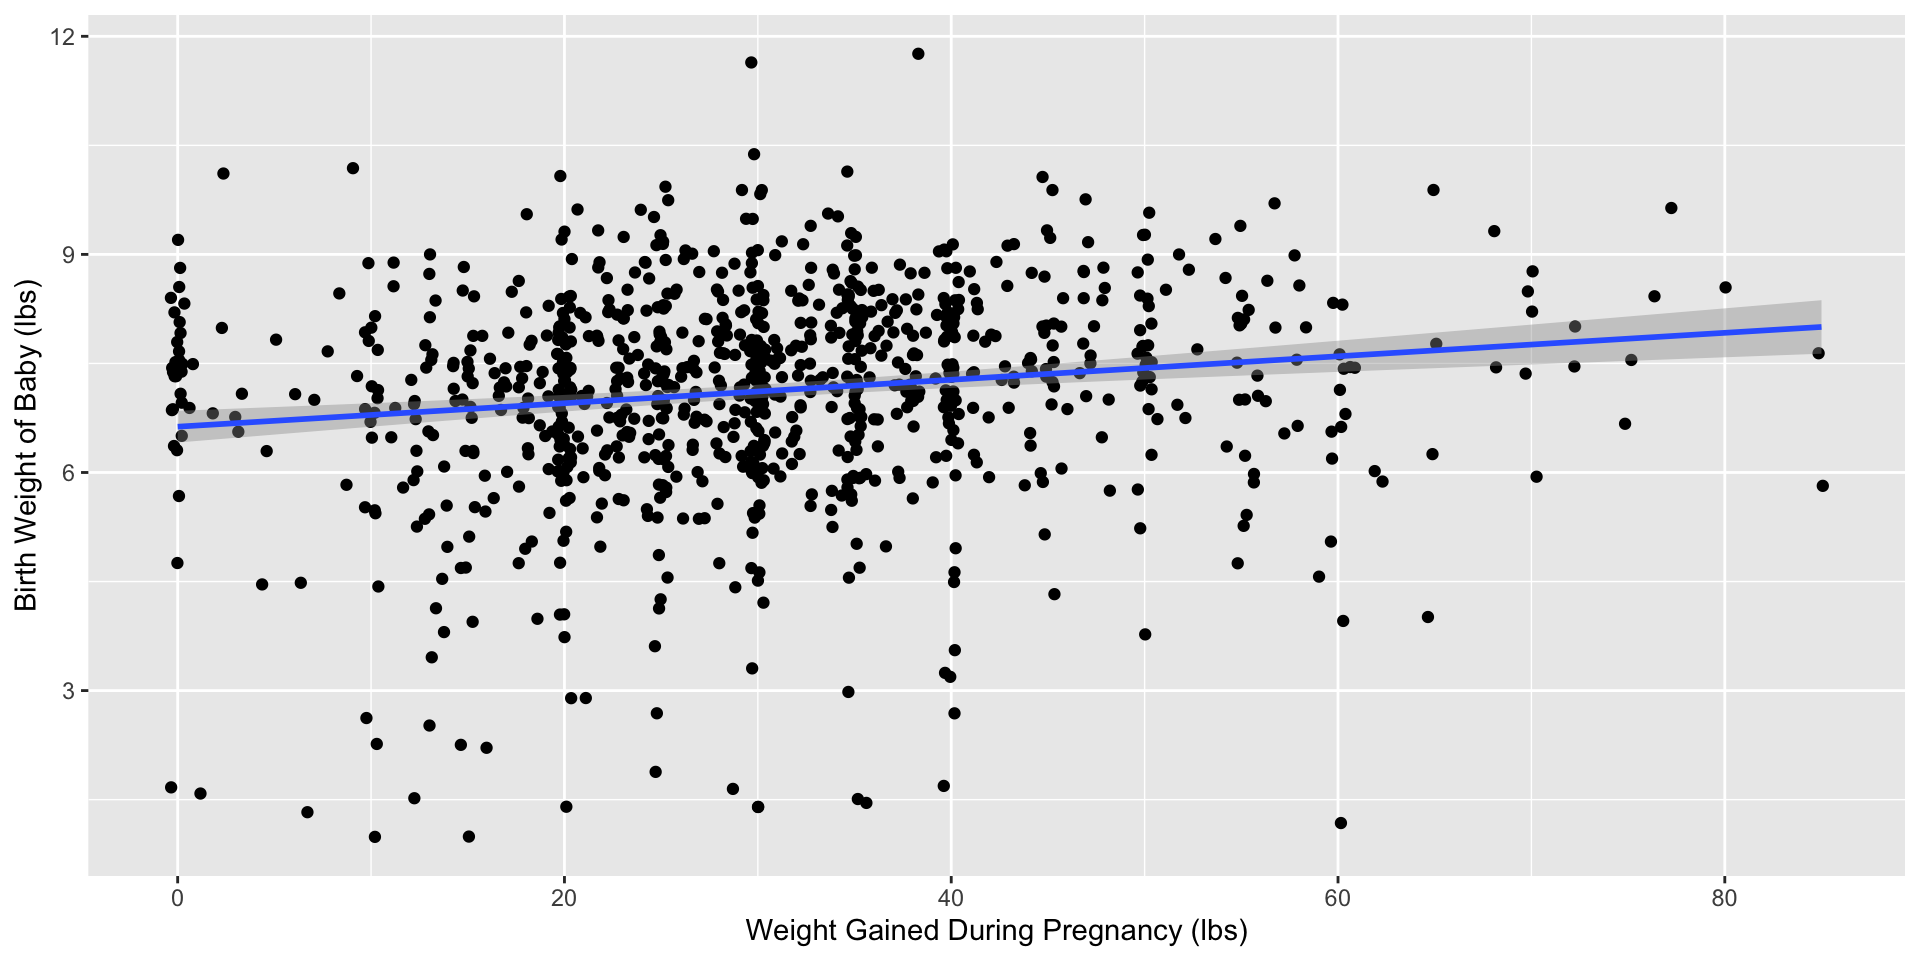
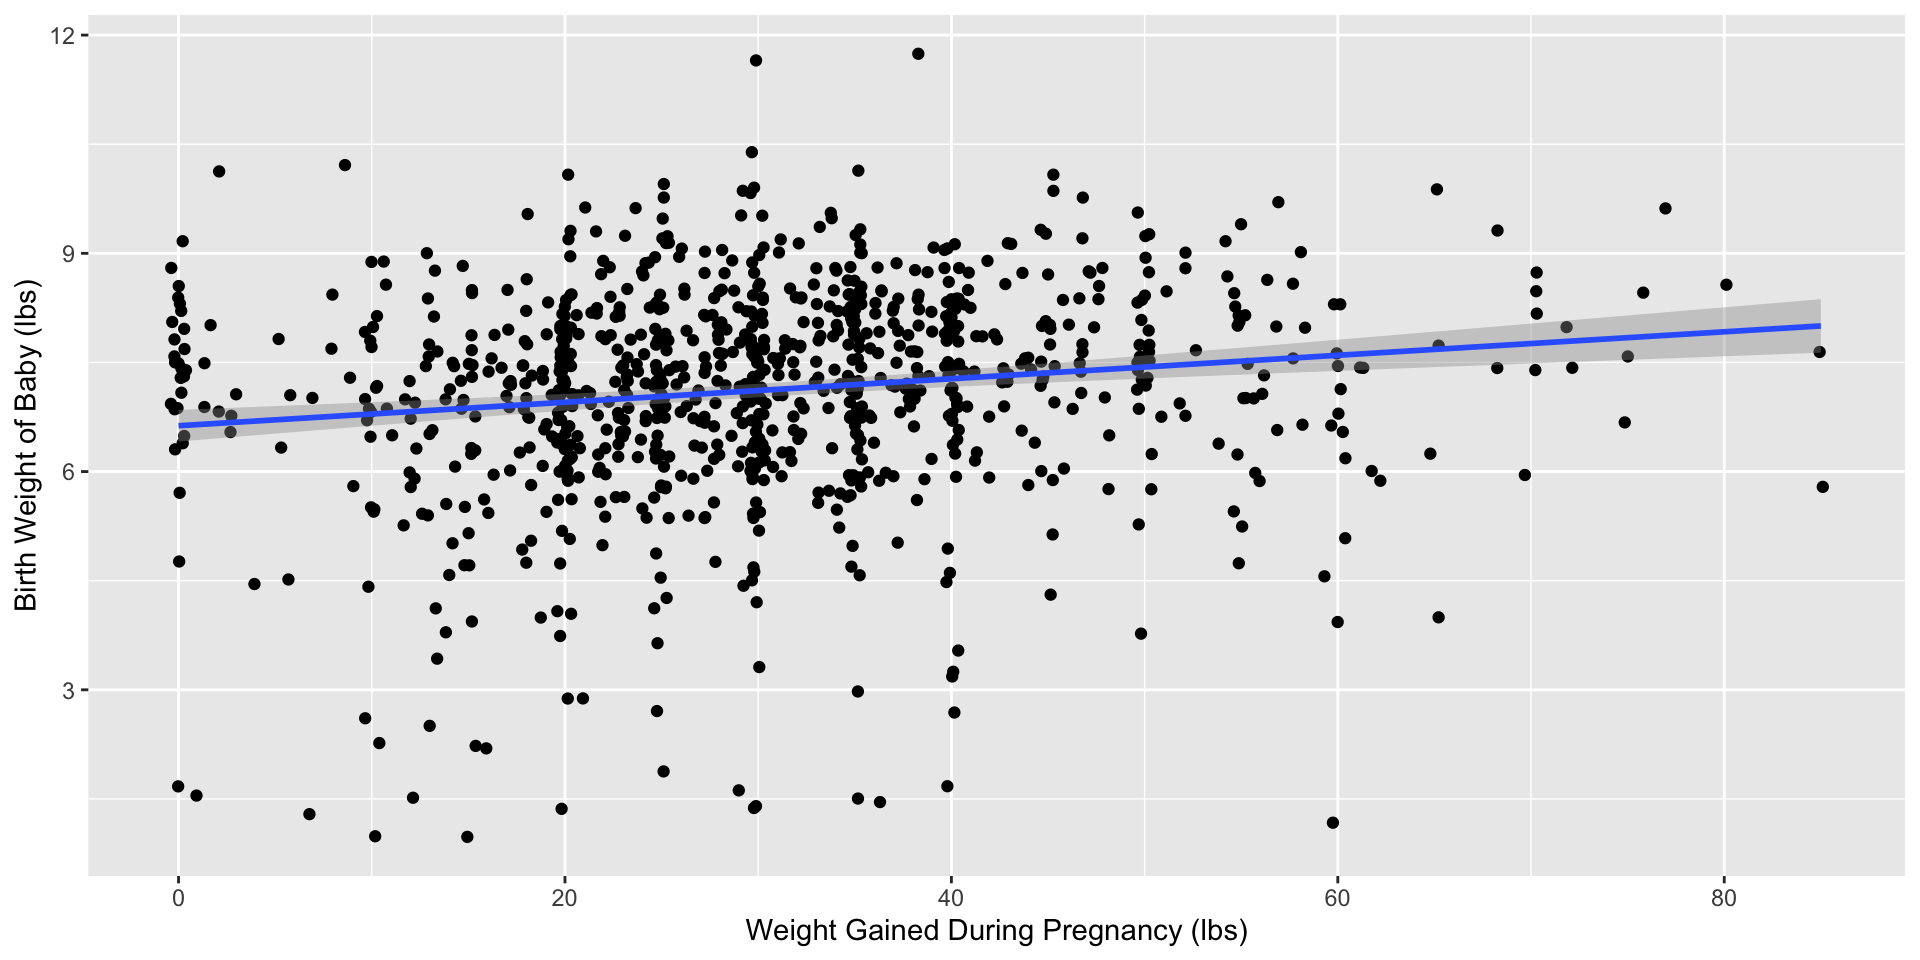
small changes to today's slide

diff --git a/docs/slides/week-10/data-simulation-part-2.html b/docs/slides/week-10/data-simulation-part-2.html
@@ -205,6 +205,7 @@
 
 <p>Today we will…</p>
 <ul>
+<li>Reminder about Lab 8 (and 9 and 10) Code Review</li>
 <li>Thinking through a probability simulation task</li>
 <li>Introduce Lab 9
 <ul>
@@ -215,15 +216,27 @@
 <li>Work time!</li>
 </ul>
 </section>
-<section>
-<section id="the-birthday-problem" class="title-slide slide level1 center">
-<h1>The Birthday Problem</h1>
-<blockquote>
-<p>What the probability that at least two people in a group of randomly selected people share a birthday?</p>
-</blockquote>
+<section id="dont-forget-to-complete-your-lab-8-code-review" class="title-slide slide level1 center">
+<h1>Don’t forget to complete your Lab 8 code review!</h1>
+
 </section>
-<section id="our-task" class="slide level2">
-<h2>Our Task</h2>
+
+<section id="dont-forget-to-complete-your-lab-8-code-review-1" class="title-slide slide level1 center">
+<h1>Don’t forget to complete your Lab 8 code review!</h1>
+<p><br></p>
+<blockquote>
+<p>Make sure your feedback follows the <a href="../../code-review/code-review-guidelines.html">code review guidelines</a>.</p>
+</blockquote>
+<p><strong>Insert your review into the comment box!</strong></p>
+</section>
+
+<section>
+<section id="lab-9-simulating-probabilities" class="title-slide slide level1 center">
+<h1>Lab 9: Simulating Probabilities</h1>
+
+</section>
+<section id="the-birthday-problem" class="slide level2">
+<h2>The Birthday Problem</h2>
 <p>Simulate the approximate probability that at least two people have the same birthday (same day of the year, not considering year of birth or leap years).</p>
 </section>
 <section id="writing-a-function-to" class="slide level2">
@@ -322,8 +335,10 @@
 <p>Use a <code>map()</code> function to simulate 1000 datasets.</p>
 <div class="midi">
 <div class="cell">
-<div class="sourceCode cell-code" id="cb4"><pre class="sourceCode r code-with-copy"><code class="sourceCode r"><span id="cb4-1"><a aria-hidden="true" tabindex="-1"></a>sim_results <span class="ot">&lt;-</span> <span class="fu">map_lgl</span>(<span class="at">.x =</span> <span class="dv">1</span><span class="sc">:</span><span class="dv">1000</span>,</span>
-<span id="cb4-2"><a aria-hidden="true" tabindex="-1"></a>                       <span class="at">.f =</span> <span class="sc">~</span> <span class="fu">get_shared_birthdays</span>(<span class="at">n =</span> <span class="dv">50</span>))</span></code><button title="Copy to Clipboard" class="code-copy-button"><i class="bi"></i></button></pre></div>
+<div class="sourceCode cell-code" id="cb4"><pre class="sourceCode r code-with-copy"><code class="sourceCode r"><span id="cb4-1"><a aria-hidden="true" tabindex="-1"></a><span class="fu">set.seed</span>(<span class="dv">14</span>)</span>
+<span id="cb4-2"><a aria-hidden="true" tabindex="-1"></a></span>
+<span id="cb4-3"><a aria-hidden="true" tabindex="-1"></a>sim_results <span class="ot">&lt;-</span> <span class="fu">map_lgl</span>(<span class="at">.x =</span> <span class="dv">1</span><span class="sc">:</span><span class="dv">1000</span>,</span>
+<span id="cb4-4"><a aria-hidden="true" tabindex="-1"></a>                       <span class="at">.f =</span> <span class="sc">~</span> <span class="fu">get_shared_birthdays</span>(<span class="at">n =</span> <span class="dv">50</span>))</span></code><button title="Copy to Clipboard" class="code-copy-button"><i class="bi"></i></button></pre></div>
 </div>
 </div>
 <div class="fragment">
@@ -333,17 +348,17 @@
 </ul>
 <div class="midi">
 <div class="cell">
-<div class="sourceCode cell-code" id="cb5"><pre class="sourceCode r code-with-copy"><code class="sourceCode r"><span id="cb5-1"><a aria-hidden="true" tabindex="-1"></a><span class="fu">sum</span>(sim_results) <span class="sc">/</span> <span class="dv">1000</span></span></code><button title="Copy to Clipboard" class="code-copy-button"><i class="bi"></i></button></pre></div>
+<div class="sourceCode cell-code" id="cb5"><pre class="sourceCode r code-with-copy"><code class="sourceCode r"><span id="cb5-1"><a aria-hidden="true" tabindex="-1"></a><span class="fu">sum</span>(sim_results) <span class="sc">/</span> <span class="fu">length</span>(sim_results)</span></code><button title="Copy to Clipboard" class="code-copy-button"><i class="bi"></i></button></pre></div>
 <div class="cell-output cell-output-stdout">
-<pre><code>[1] 0.965</code></pre>
+<pre><code>[1] 0.96</code></pre>
 </div>
 </div>
 </div>
 </div>
 </section></section>
 <section>
-<section id="lab-9-data-simulation-exploration" class="title-slide slide level1 center">
-<h1>Lab 9: Data Simulation Exploration</h1>
+<section id="lab-9-simulating-confidence-interval-coverage-rates" class="title-slide slide level1 center">
+<h1>Lab 9: Simulating Confidence Interval Coverage Rates</h1>
 
 </section>
 <section id="simple-linear-regression-slr" class="slide level2">
@@ -352,19 +367,22 @@
 <p><span class="math display">\[
   response = intercept + slope \times explanatory + noise
 \]</span></p>
+</section>
+<section id="slr-model-notation" class="slide level2">
+<h2>SLR Model Notation</h2>
+<p>In Statistics, there are <strong>two</strong> types of models—the population model and the fitted (sample) model.</p>
 <div class="fragment">
-<p>We use the following notation for this model:</p>
 <div class="columns">
 <div class="column" style="width:48%;">
 <p><strong>Population</strong> Regression Model</p>
-<p><span class="math inline">\(Y = \beta_0 + \beta_1 X + \varepsilon\)</span></p>
-<p>where <span class="math inline">\(\epsilon \sim N(0, \sigma)\)</span> is the random noise.</p>
+<p><span class="math inline">\(y_i = \beta_0 + \beta_1 x_i + \epsilon_i\)</span></p>
+<p>where <span class="math inline">\(\epsilon_i \sim N(0, \sigma)\)</span> is the random noise.</p>
 </div><div class="column" style="width:2%;">
 
 </div><div class="column" style="width:50%;">
 <div class="fragment">
 <p><strong>Fitted</strong> Regression Model</p>
-<p><span class="math inline">\(\hat{y}_i = \widehat{\beta}_0 + \widehat{\beta}_1 x_i\)</span></p>
+<p><span class="math inline">\(\widehat{y}_i = \widehat{\beta}_0 + \widehat{\beta}_1 x_i\)</span></p>
 <p>where &nbsp; <span class="math inline">\(\widehat{}\)</span> &nbsp; indicates the value was estimated.</p>
 </div>
 </div></div>
